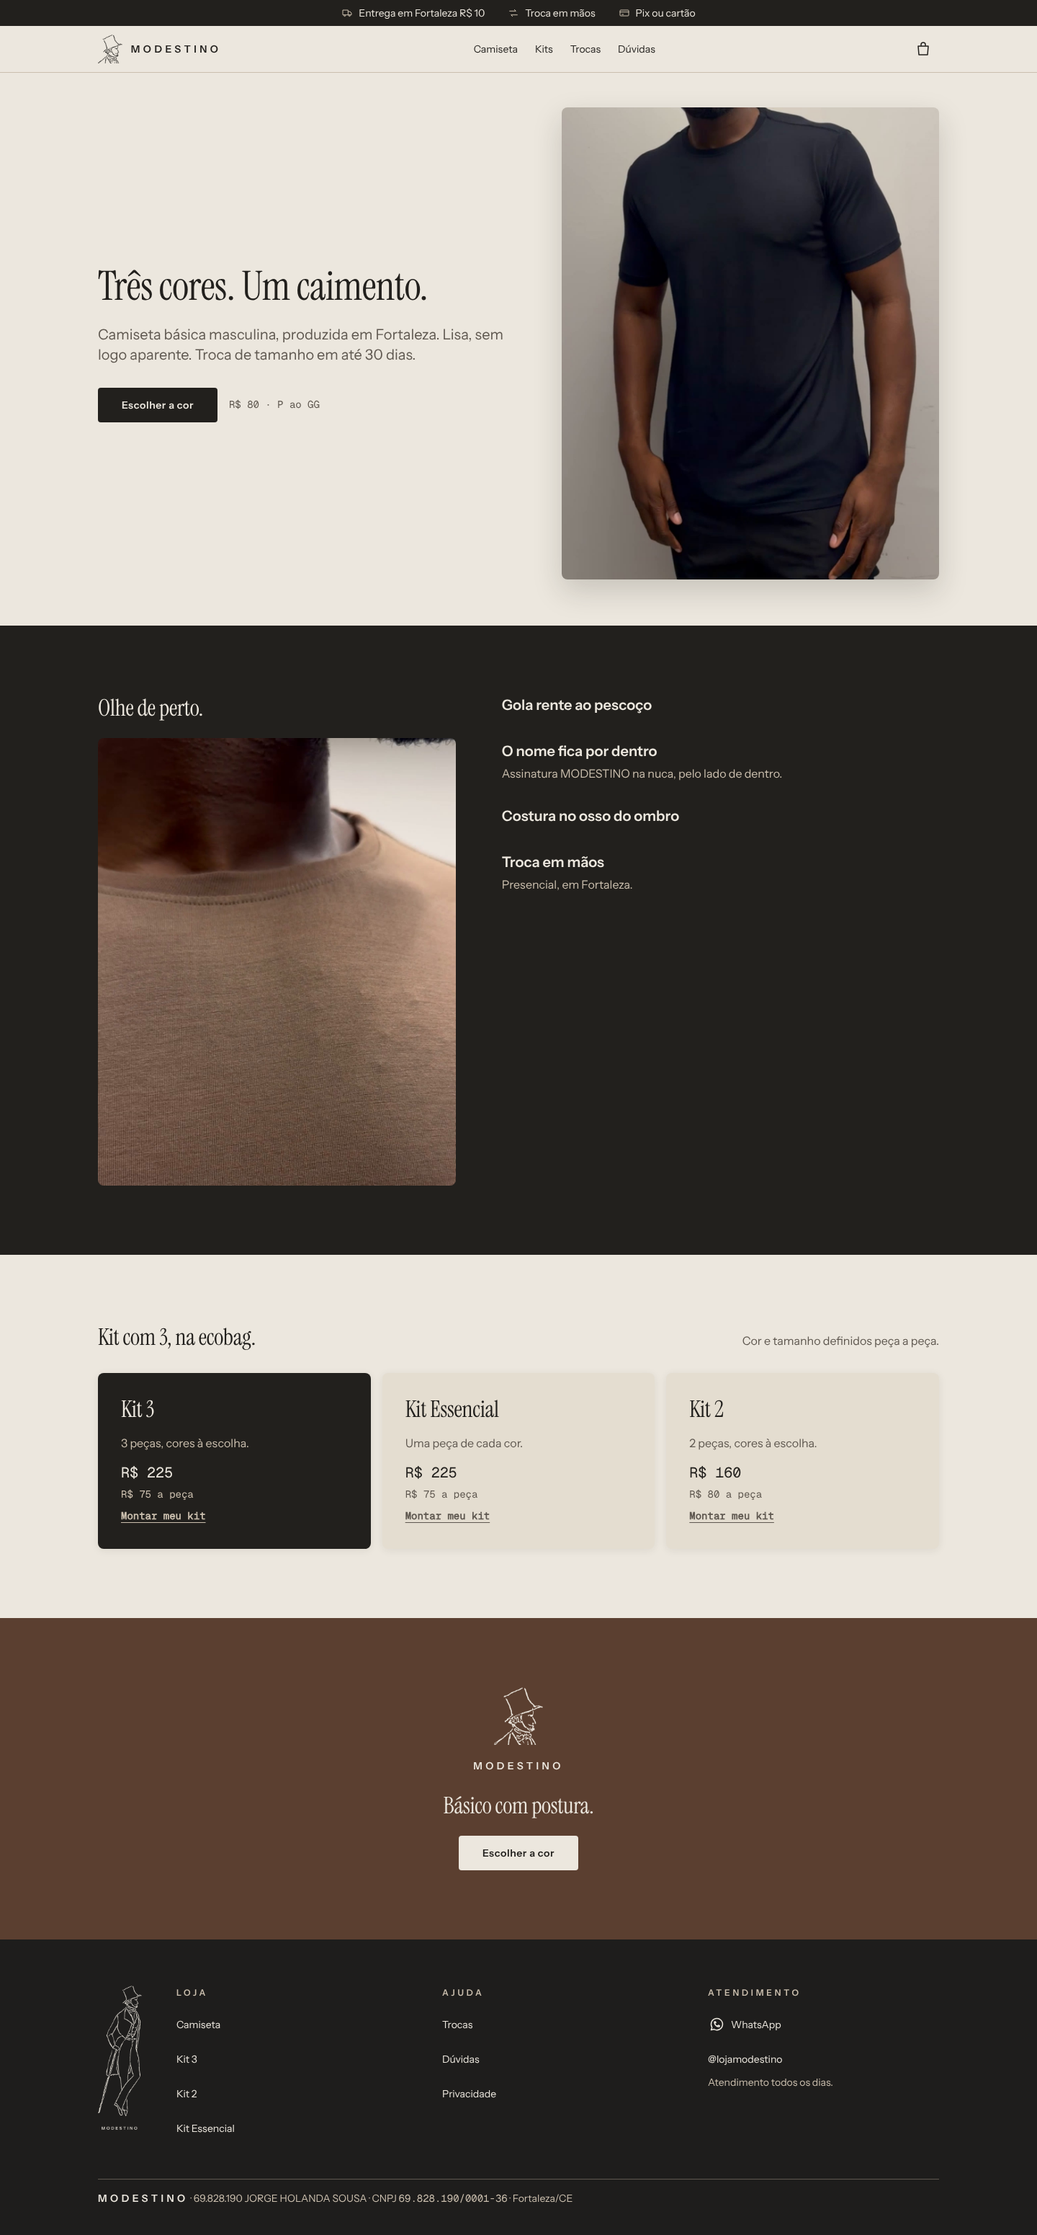
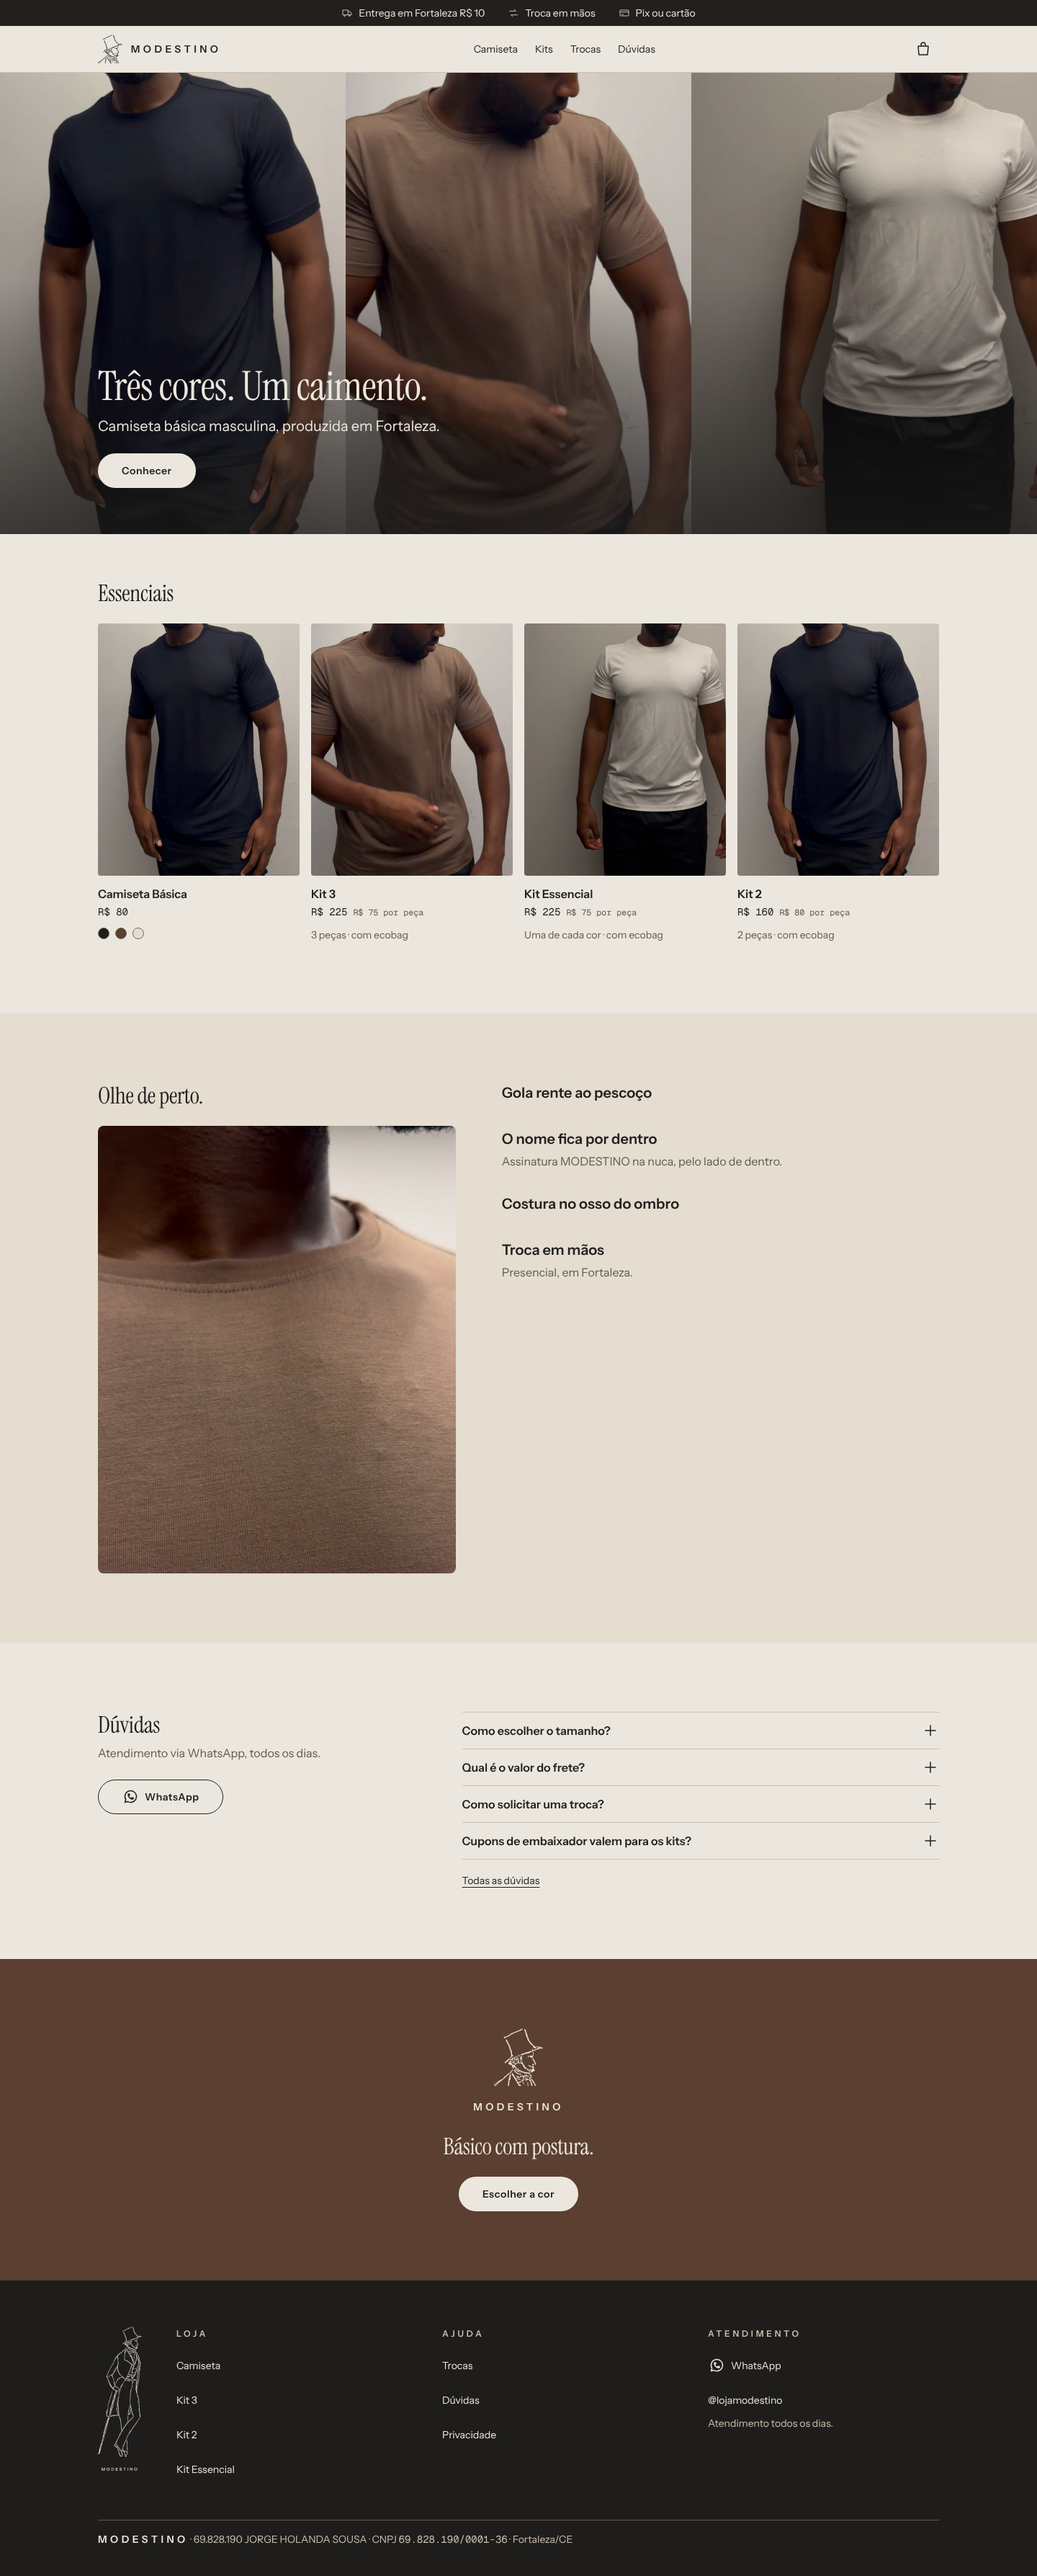
Loja: início com foto em tela cheia, vitrine de produtos e dúvidas (linha Parla/Fusion)
Claude-Session: https://claude.ai/code/session_01XyhGghdVvLcnYoXGzyzWry

diff --git a/loja/tema/assets/modestino.css b/loja/tema/assets/modestino.css
@@ -36,7 +36,7 @@ body.modestino h1, body.modestino h2, body.modestino h3 { font-family: var(--fon
 .m-btn {
   display: inline-flex; align-items: center; justify-content: center; gap: var(--space-2);
   min-height: var(--size-button); padding: 0 var(--space-6);
-  border-radius: var(--radius-md); border: var(--size-hairline) solid transparent;
+  border-radius: var(--radius-pill); border: var(--size-hairline) solid transparent;
   font: var(--text-lg-weight) var(--text-sm-size) / 1 var(--font-sans); letter-spacing: 0.04em;
   text-decoration: none; cursor: pointer;
   transition: background var(--motion-fast) var(--motion-ease), transform var(--motion-fast) var(--motion-ease);
@@ -86,32 +86,62 @@ body.modestino h1, body.modestino h2, body.modestino h3 { font-family: var(--fon
   .m-marca span { font-size: var(--text-xs-size); }
 }
 
-/* ---------- início: primeira tela ---------- */
-.m-hero { padding-block: var(--space-7) var(--space-8); }
-.m-hero__grid { display: grid; grid-template-columns: 1.05fr 0.95fr; gap: var(--space-8); align-items: center; }
-.m-hero h1 { font-size: clamp(var(--text-xl-size), 5.2vw, var(--text-display-size)); line-height: 1.04; margin: 0 0 var(--space-5); max-width: 19ch; text-wrap: balance; }
-.m-hero h1 em { font-style: italic; }
-.m-hero__sub { font-size: var(--text-lg-size); line-height: var(--text-lg-line); font-weight: 400; color: var(--color-text-muted); max-width: 44ch; margin: 0 0 var(--space-6); text-wrap: pretty; }
-.m-hero__acao { display: flex; flex-wrap: wrap; align-items: center; gap: var(--space-4); }
-.m-hero__preco { font-family: var(--font-mono); font-variant-numeric: tabular-nums; font-size: var(--text-sm-size); color: var(--color-text-muted); }
-.m-hero__foto { margin: 0; position: relative; }
-.m-hero__foto img { display: block; width: 100%; height: auto; aspect-ratio: 4 / 5; object-fit: cover; border-radius: var(--radius-lg); box-shadow: var(--shadow-pop); }
-.m-hero__foto figcaption { margin-top: var(--space-2); font-size: var(--text-xs-size); font-family: var(--font-mono); color: var(--color-text-muted); }
+/* ---------- início: primeira tela (foto em tela cheia) ---------- */
+.m-hero { position: relative; color: var(--color-text-on-dark); background: var(--color-surface-deep); }
+.m-hero__fotos { display: grid; grid-template-columns: repeat(3, minmax(0, 1fr)); height: min(var(--size-hero), 78vh); }
+.m-hero__foto { min-width: 0; overflow: hidden; }
+.m-hero__foto img { display: block; width: 100%; height: 100%; object-fit: cover; object-position: center 30%; }
+.m-hero__texto { position: absolute; inset: 0; display: flex; align-items: flex-end; background: var(--overlay-hero); padding-block: var(--space-8); }
+.m-hero__texto > .m-wrap { width: 100%; }
+.m-hero h1 { font-size: clamp(var(--text-xl-size), 5vw, var(--text-display-size)); line-height: 1.04; margin: 0 0 var(--space-3); max-width: 24ch; }
+.m-hero__sub { font-size: var(--text-lg-size); line-height: var(--text-lg-line); font-weight: 400; margin: 0 0 var(--space-5); color: var(--color-text-on-dark); }
 @media (max-width: 859px) {
-  .m-hero { padding-block: var(--space-5) var(--space-7); }
-  .m-hero__grid { grid-template-columns: 1fr; gap: var(--space-5); }
-  .m-hero__foto { order: -1; }
-  .m-hero__foto img { aspect-ratio: 4 / 4; }
-  .m-hero__acao .m-btn { width: 100%; }
+  .m-hero__fotos { grid-template-columns: 1fr; height: min(calc(100svh - var(--size-header) - var(--space-8)), var(--size-hero)); }
+  .m-hero__foto:not(:first-child) { display: none; }
+  .m-hero__texto { padding-block: var(--space-6); }
+  .m-hero__texto .m-btn { width: 100%; }
 }
 
+/* ---------- vitrine (grade de produtos) ---------- */
+.m-vitrine { padding-block: var(--space-8) var(--space-9); }
+.m-vitrine__cab { display: flex; justify-content: space-between; align-items: baseline; margin-bottom: var(--space-5); }
+.m-vitrine h2 { font-size: var(--text-xl-size); line-height: var(--text-xl-line); margin: 0; }
+.m-vitrine__grade { list-style: none; margin: 0; padding: 0; display: grid; grid-template-columns: repeat(4, minmax(0, 1fr)); gap: var(--space-6) var(--space-4); }
+.m-card__link { color: inherit; text-decoration: none; display: block; }
+.m-card__foto { position: relative; border-radius: var(--radius-md); overflow: hidden; background: var(--color-surface); aspect-ratio: 4 / 5; margin-bottom: var(--space-3); }
+.m-card__foto img { position: absolute; inset: 0; width: 100%; height: 100%; object-fit: cover; transition: opacity var(--motion-base) var(--motion-ease); }
+.m-card__alt { opacity: 0; }
+.m-card__link:hover .m-card__alt, .m-card__link:focus-visible .m-card__alt { opacity: 1; }
+.m-card__selo { position: absolute; top: var(--space-3); left: var(--space-3); background: var(--color-bg); color: var(--color-text); font-size: var(--text-xs-size); padding: var(--space-1) var(--space-3); border-radius: var(--radius-pill); }
+body.modestino .m-card h3 { font-family: var(--font-sans); font-size: var(--text-base-size); line-height: var(--text-base-line); font-weight: var(--text-lg-weight); letter-spacing: 0; margin: 0; }
+.m-card__preco { margin: 0; font-family: var(--font-mono); font-variant-numeric: tabular-nums; font-size: var(--text-sm-size); }
+.m-card__preco small { color: var(--color-text-muted); margin-left: var(--space-2); }
+.m-card__nota { margin: var(--space-1) 0 0; font-size: var(--text-sm-size); color: var(--color-text-muted); }
+.m-card__cores { list-style: none; margin: var(--space-2) 0 0; padding: 0; display: flex; gap: var(--space-2); }
+.m-card__cores li { width: var(--space-4); height: var(--space-4); border-radius: var(--radius-pill); border: var(--size-hairline) solid var(--color-border-input); }
+.m-card__cores li[data-cor='Preto'] { background: var(--color-surface-deep); }
+.m-card__cores li[data-cor='Mapple Brown'] { background: var(--color-accent); }
+.m-card__cores li[data-cor='Off White'] { background: var(--color-surface); }
+@media (max-width: 859px) {
+  .m-vitrine { padding-block: var(--space-7) var(--space-8); }
+  .m-vitrine__grade { grid-template-columns: repeat(2, minmax(0, 1fr)); gap: var(--space-5) var(--space-3); }
+}
+
+/* ---------- dúvidas (início) ---------- */
+.m-duvidas { padding-block: var(--space-9); }
+.m-duvidas__grid { display: grid; grid-template-columns: 0.8fr 1.2fr; gap: var(--space-8); align-items: start; }
+.m-duvidas h2 { font-size: var(--text-xl-size); line-height: var(--text-xl-line); margin: 0 0 var(--space-2); }
+.m-duvidas .m-muted { margin: 0 0 var(--space-5); }
+.m-duvidas__todas { margin: var(--space-4) 0 0; font-size: var(--text-sm-size); }
+@media (max-width: 859px) { .m-duvidas { padding-block: var(--space-8); } .m-duvidas__grid { grid-template-columns: 1fr; gap: var(--space-5); } }
+
 /* ---------- início: como o pedido sai ---------- */
-.m-prova { background: var(--color-surface-dark); color: var(--color-text-on-dark); padding-block: var(--space-9); }
+.m-prova { background: var(--color-surface); color: var(--color-text); padding-block: var(--space-9); }
 .m-prova__grid { display: grid; grid-template-columns: 0.9fr 1.1fr; gap: var(--space-8); align-items: start; }
 .m-prova h2 { font-size: var(--text-xl-size); line-height: var(--text-xl-line); margin: 0 0 var(--space-5); max-width: 18ch; }
 .m-prova__lista { list-style: none; margin: 0; padding: 0; display: grid; gap: var(--space-6); }
 body.modestino .m-prova__lista h3 { font-family: var(--font-sans); font-weight: var(--text-lg-weight); font-size: var(--text-lg-size); line-height: var(--text-lg-line); letter-spacing: 0; margin: 0 0 var(--space-1); }
-.m-prova__lista p { margin: 0; color: var(--color-text-muted-on-dark); max-width: var(--measure); }
+.m-prova__lista p { margin: 0; color: var(--color-text-muted); max-width: var(--measure); }
 .m-prova img { display: block; width: 100%; height: auto; aspect-ratio: 4 / 5; object-fit: cover; border-radius: var(--radius-lg); }
 @media (max-width: 859px) {
   .m-prova { padding-block: var(--space-8); }

diff --git a/loja/design/tokens.css b/loja/design/tokens.css
@@ -57,9 +57,11 @@
   --size-thumb: 72px;
   --size-content: 720px;
   --size-container: 1200px;
+  --size-hero: 640px;
   --measure: 68ch;
   --shadow-card: 0 2px 12px rgba(34,32,29,.08);
   --shadow-pop: 0 16px 40px rgba(34,32,29,.18);
+  --overlay-hero: linear-gradient(180deg, rgba(30,29,28,0) 45%, rgba(30,29,28,.72) 100%);
   --motion-fast: 140ms;
   --motion-base: 320ms;
   --motion-ease: cubic-bezier(.16,1,.3,1);

diff --git a/loja/tema/assets/modestino-tokens.css b/loja/tema/assets/modestino-tokens.css
@@ -51,9 +51,11 @@
   --size-thumb: 72px;
   --size-content: 720px;
   --size-container: 1200px;
+  --size-hero: 640px;
   --measure: 68ch;
   --shadow-card: 0 2px 12px rgba(34,32,29,.08);
   --shadow-pop: 0 16px 40px rgba(34,32,29,.18);
+  --overlay-hero: linear-gradient(180deg, rgba(30,29,28,0) 45%, rgba(30,29,28,.72) 100%);
   --motion-fast: 140ms;
   --motion-base: 320ms;
   --motion-ease: cubic-bezier(.16,1,.3,1);

diff --git a/loja/tema/tools/gerar_tokens.py b/loja/tema/tools/gerar_tokens.py
@@ -23,6 +23,7 @@ linhas += [f"  --size-{k}: {v}px;" for k, v in t.get('size', {}).items()]
 if 'measure' in t:
     linhas.append(f"  --measure: {t['measure']};")
 linhas += [f"  --shadow-{k}: {v};" for k, v in t['shadow'].items()]
+linhas += [f"  --overlay-{k}: {v};" for k, v in t.get('overlay', {}).items()]
 linhas += [f"  --motion-{k}: {v};" for k, v in t['motion'].items()]
 linhas.append('}')
 corpo = '\n'.join(linhas) + '\n'

diff --git a/loja/build-log.md b/loja/build-log.md
@@ -1,5 +1,13 @@
 # Construção da loja — registro
 
+## 27/10/2026 (noite, 5ª rodada) — linha visual da Parla e da Fusion
+
+Referências indicadas pelo Jorge: [Parla](https://parlabr.com/) (@parlabr) e [Fusion](https://usefusion.com.br/) (@usefusion_). Estudo só de estrutura (nenhum texto, foto ou código copiado): foto em tela cheia com pouco texto por cima, grade de produtos logo depois (foto, nome, preço, cores), botões arredondados, fundo claro, dúvidas em lista abrir/fechar com o atendimento ao lado, rodapé com central de atendimento.
+- Início: primeira tela agora é foto em tela cheia (as três cores lado a lado no computador, uma no celular), com título, uma linha e "Conhecer". Nova seção "Essenciais" (Camiseta + 3 kits, com cores, preço por peça e segunda foto ao passar o mouse). "Olhe de perto" em fundo claro. Nova seção "Dúvidas" com 4 perguntas e WhatsApp. Botões arredondados em toda a loja.
+- Tokens: `overlay.hero` e `size.hero` novos em `tokens.json` (contraste 13/13 AA). Novas seções `modestino-vitrine` e `modestino-duvidas`; `modestino-kits` fica sem uso.
+- Sem avaliações de cliente ainda (as referências usam; só entram quando houver avaliações reais).
+- 6 arquivos enviados ao tema de construção e conferidos por checksum; tema segue não publicado.
+
 ## 27/10/2026 (noite, 4ª rodada) — tom profissional
 
 Pedido do Jorge: nada de linguagem informal nem menção aos donos. Reescritos: subtítulo da primeira tela ("Camiseta básica masculina, produzida em Fortaleza. Lisa, sem logo aparente. Troca de tamanho em até 30 dias."), botões ("Atendimento via WhatsApp", "Selecione o tamanho", "Guia de medidas", "Calcular"), mensagens de estoque e de cupom, cards dos kits, perguntas frequentes (9), rodapé ("Atendimento todos os dias"), páginas de trocas e privacidade (linguagem formal, mesmas regras) e descrições dos 4 produtos (`vitrine.py` 0 erros). 9 arquivos do tema reenviados e conferidos; páginas e produtos atualizados na Shopify.
